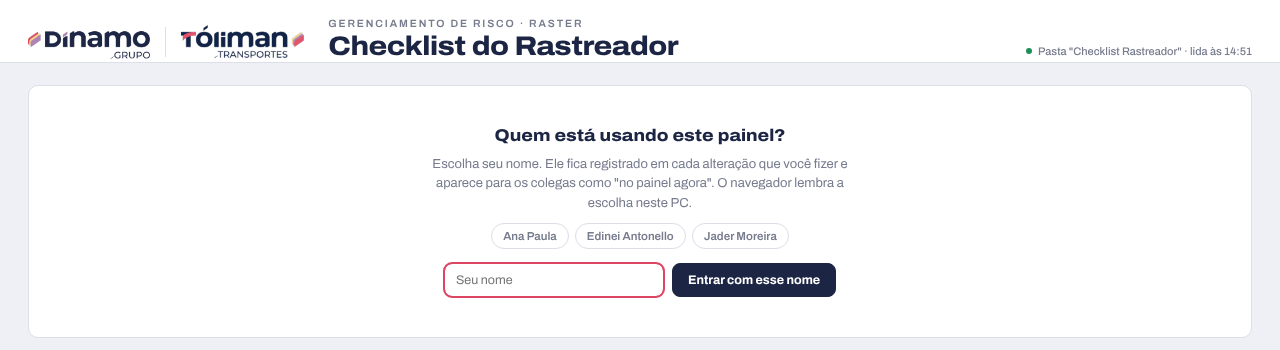
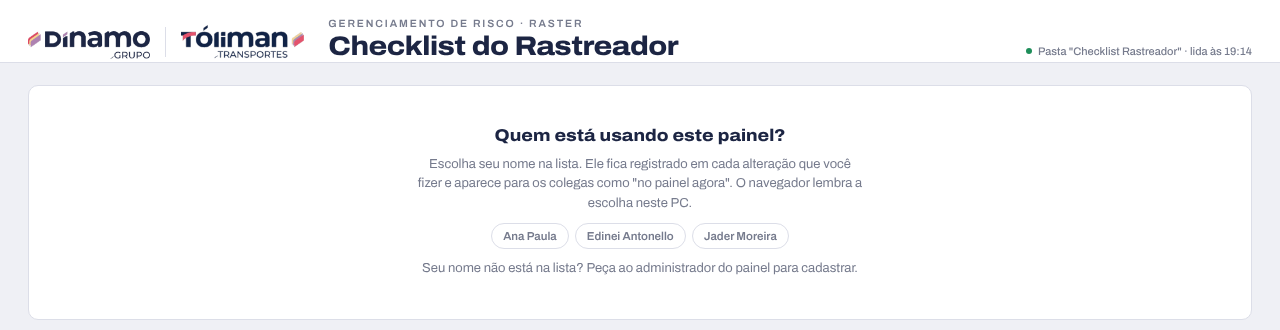
Painel: só o administrador cadastra e remove nomes
Sai o campo livre de nome: cada pessoa escolhe o próprio nome na lista.
O administrador cria uma senha no primeiro acesso (ou pela aba Pessoas,
para instalações que já estavam em uso) e só com ela a lista de nomes
pode ser alterada. Manual atualizado.

Claude-Session: https://claude.ai/code/session_01KxtQDe2sdUZu3ikzxhG5hY

Changed region(s): [[0.3125, 0.3636, 0.6875, 0.8485], [0.0, 0.0303, 0.5312, 0.1818], [0.8125, 0.1212, 1.0, 0.1818]]

diff --git a/painel/painel.html b/painel/painel.html
@@ -252,12 +252,18 @@ footer{margin-top:34px;font-size:11px;color:var(--muted);line-height:1.6;border-
   <!-- quem é você -->
   <section id="quem" class="card empty sec" hidden>
     <div class="big">Quem está usando este painel?</div>
-    <p>Escolha seu nome. Ele fica registrado em cada alteração que você fizer e aparece para os colegas como "no painel agora". O navegador lembra a escolha neste PC.</p>
+    <p>Escolha seu nome na lista. Ele fica registrado em cada alteração que você fizer e aparece para os colegas como "no painel agora". O navegador lembra a escolha neste PC.</p>
     <div class="pessoas" id="quem-lista"></div>
-    <form class="addrow" id="quem-form">
-      <input class="inp" id="quem-nome" placeholder="Seu nome" autocomplete="off" aria-label="Seu nome" maxlength="40">
-      <button class="btn" type="submit">Entrar com esse nome</button>
-    </form>
+    <p class="sec-note" id="quem-nota" style="margin:0">Seu nome não está na lista? Peça ao administrador do painel para cadastrar.</p>
+    <div id="adm-novo" hidden style="display:grid;gap:10px;justify-items:center;border-top:1px solid var(--line);padding-top:16px;margin-top:6px;width:100%">
+      <p style="margin:0"><b>O painel ainda não tem administrador.</b> Quem administra se cadastra aqui primeiro: só o administrador cadastra e remove nomes, usando a senha criada agora.</p>
+      <form class="addrow" id="adm-form">
+        <input class="inp" id="adm-nome" placeholder="Seu nome" autocomplete="off" aria-label="Seu nome" maxlength="40">
+        <input class="inp" id="adm-senha" type="password" placeholder="Crie a senha (mín. 4)" autocomplete="new-password" aria-label="Senha do administrador">
+        <input class="inp" id="adm-senha2" type="password" placeholder="Repita a senha" autocomplete="new-password" aria-label="Repita a senha">
+        <button class="btn" type="submit">Ser o administrador</button>
+      </form>
+    </div>
   </section>
 
   <!-- FILA -->
@@ -297,12 +303,18 @@ footer{margin-top:34px;font-size:11px;color:var(--muted);line-height:1.6;border-
   <!-- PESSOAS -->
   <section id="v-pes" role="tabpanel" aria-labelledby="tab-pes" hidden>
     <div class="sec">
-      <div class="sec-h"><h2>Pessoas que usam o painel</h2><span class="sec-note">Lista compartilhada por todos</span></div>
+      <div class="sec-h"><h2>Pessoas que usam o painel</h2><span class="sec-note" id="pes-adm"></span></div>
       <div class="card pad">
         <div class="pessoas" id="pes-lista" style="justify-content:flex-start"></div>
-        <form class="addrow" id="pes-form" style="justify-content:flex-start;margin-top:14px">
+        <form class="addrow" id="pes-unlock" style="justify-content:flex-start;margin-top:14px">
+          <input class="inp" id="pes-senha" type="password" placeholder="Senha do administrador" autocomplete="current-password" aria-label="Senha do administrador">
+          <button class="btn ghost" type="submit" id="pes-unlock-btn">Gerenciar nomes</button>
+          <span class="sec-note" id="pes-unlock-nota">Só o administrador cadastra e remove nomes.</span>
+        </form>
+        <form class="addrow" id="pes-form" hidden style="justify-content:flex-start;margin-top:14px">
           <input class="inp" id="pes-nome" placeholder="Nome da pessoa" autocomplete="off" aria-label="Nome da pessoa" maxlength="40">
           <button class="btn ghost" type="submit">Adicionar</button>
+          <button class="linkbtn" type="button" id="pes-bloquear">bloquear de novo</button>
         </form>
       </div>
     </div>
@@ -512,23 +524,46 @@ async function presenca() {
 
 /* ---------- quem é você ---------- */
 function entrarOuPerguntar() {
-  if (st.pessoa) { mostrarApp(); return; }
+  // só entra com um nome cadastrado; nome removido da lista volta para a escolha
+  if (st.pessoa && st.estado.pessoas.includes(st.pessoa)) { mostrarApp(); return; }
   ['#tabs', '#v-fila', '#v-imp', '#v-pes', '#eu-wrap', '#rodape'].forEach(s => $(s).hidden = true);
   $('#quem').hidden = false;
   const l = $('#quem-lista'); l.innerHTML = '';
   for (const n of st.estado.pessoas) l.append(botao(n, 'chip', () => definirPessoa(n)));
-  if (!st.estado.pessoas.length) l.innerHTML = '<span class="sec-note">Ninguém cadastrado ainda: você será o primeiro.</span>';
-  $('#quem-nome').focus();
+  if (!st.estado.pessoas.length) l.innerHTML = '<span class="sec-note">Nenhum nome cadastrado ainda.</span>';
+  $('#adm-novo').hidden = !!st.estado.admin;
+  $('#quem-nota').hidden = !st.estado.admin;
 }
-async function definirPessoa(nome, nova) {
-  nome = String(nome || '').trim().replace(/\s+/g, ' ');
-  if (!nome) return;
+function definirPessoa(nome) {
   st.pessoa = nome; lsSet('raster.pessoa', nome);
-  if (nova && !st.estado.pessoas.some(p => p.toLowerCase() === nome.toLowerCase())) await acao(() => gravar('pessoa_adicionada', null, { nome }));
   $('#quem').hidden = true;
   mostrarApp();
 }
-$('#quem-form').addEventListener('submit', e => { e.preventDefault(); definirPessoa($('#quem-nome').value, true); });
+const limparNome = s => String(s || '').trim().replace(/\s+/g, ' ');
+async function hashSenha(senha, salt) {
+  const buf = await crypto.subtle.digest('SHA-256', new TextEncoder().encode(salt + ':' + senha));
+  return [...new Uint8Array(buf)].map(b => b.toString(16).padStart(2, '0')).join('');
+}
+async function senhaConfere(senha) {
+  const a = st.estado.admin;
+  return !!a && await hashSenha(senha, a.salt) === a.hash;
+}
+$('#adm-form').addEventListener('submit', async e => {
+  e.preventDefault();
+  if (st.estado.admin) { entrarOuPerguntar(); return; }
+  const nome = limparNome($('#adm-nome').value), s1 = $('#adm-senha').value, s2 = $('#adm-senha2').value;
+  if (!nome) { aviso('Digite seu nome.', 'info'); return; }
+  if (s1.length < 4) { aviso('A senha precisa ter pelo menos 4 caracteres.', 'info'); return; }
+  if (s1 !== s2) { aviso('As duas senhas não são iguais.', 'info'); return; }
+  const salt = novoId() + novoId();
+  st.pessoa = nome;
+  await acao(async () => {
+    if (!st.estado.pessoas.includes(nome)) await gravar('pessoa_adicionada', null, { nome });
+    await gravar('admin_definido', null, { nome, salt, hash: await hashSenha(s1, salt) });
+  }, `${nome} é o administrador do painel.`);
+  st.adminOk = true;
+  definirPessoa(nome);
+});
 
 function mostrarApp() {
   ['#tabs', '#eu-wrap', '#rodape'].forEach(s => $(s).hidden = false);
@@ -853,18 +888,37 @@ document.addEventListener('drop', e => { if (!st.pessoa || !e.dataTransfer?.file
 /* ---------- pessoas ---------- */
 const armadas = new Set();
 function renderPessoas() {
-  const l = $('#pes-lista');
-  l.innerHTML = st.estado.pessoas.map(n => `<span class="chip" style="cursor:default;display:inline-flex;gap:8px;align-items:center">${esc(n)}${n === st.pessoa ? ' <span class="muted">(você)</span>' : ` <button class="linkbtn" type="button" data-rm="${esc(n)}">${armadas.has(n) ? 'confirmar remoção' : 'remover'}</button>`}</span>`).join('') || '<span class="sec-note">Nenhuma pessoa cadastrada.</span>';
+  const l = $('#pes-lista'), adm = st.estado.admin;
+  l.innerHTML = st.estado.pessoas.map(n => `<span class="chip" style="cursor:default;display:inline-flex;gap:8px;align-items:center">${esc(n)}${n === st.pessoa ? ' <span class="muted">(você)</span>' : (st.adminOk ? ` <button class="linkbtn" type="button" data-rm="${esc(n)}">${armadas.has(n) ? 'confirmar remoção' : 'remover'}</button>` : '')}</span>`).join('') || '<span class="sec-note">Nenhuma pessoa cadastrada.</span>';
+  $('#pes-adm').textContent = adm ? `Administrador: ${adm.nome}` : 'Sem administrador';
+  $('#pes-unlock').hidden = !!st.adminOk;
+  $('#pes-unlock-btn').textContent = adm ? 'Gerenciar nomes' : 'Criar senha e ser o administrador';
+  $('#pes-unlock-nota').textContent = adm ? 'Só o administrador cadastra e remove nomes.' : `Ainda não há administrador. Quem criar a senha agora (${st.pessoa || ''}) passa a ser o único que cadastra e remove nomes.`;
+  $('#pes-form').hidden = !st.adminOk;
 }
+$('#pes-unlock').addEventListener('submit', async e => {
+  e.preventDefault();
+  if (!st.estado.admin) {
+    const s = $('#pes-senha').value;
+    if (s.length < 4) { aviso('A senha precisa ter pelo menos 4 caracteres.', 'info'); return; }
+    const salt = novoId() + novoId();
+    await acao(async () => gravar('admin_definido', null, { nome: st.pessoa, salt, hash: await hashSenha(s, salt) }), `${st.pessoa} é o administrador do painel. Guarde a senha.`);
+    $('#pes-senha').value = ''; st.adminOk = !!st.estado.admin; renderPessoas(); return;
+  }
+  if (!await senhaConfere($('#pes-senha').value)) { aviso('Senha do administrador incorreta.', 'err'); return; }
+  $('#pes-senha').value = ''; st.adminOk = true; renderPessoas(); $('#pes-nome').focus();
+});
+$('#pes-bloquear').addEventListener('click', () => { st.adminOk = false; armadas.clear(); renderPessoas(); });
 $('#pes-lista').addEventListener('click', e => {
-  const b = e.target.closest('[data-rm]'); if (!b) return;
+  const b = e.target.closest('[data-rm]'); if (!b || !st.adminOk) return;
   const n = b.dataset.rm;
   if (!armadas.has(n)) { armadas.add(n); renderPessoas(); return; }
   armadas.delete(n); acao(() => gravar('pessoa_removida', null, { nome: n }), `${n} removido da lista.`);
 });
 $('#pes-form').addEventListener('submit', e => {
   e.preventDefault();
-  const nome = $('#pes-nome').value.trim().replace(/\s+/g, ' ');
+  if (!st.adminOk) return;
+  const nome = limparNome($('#pes-nome').value);
   if (!nome) return;
   if (st.estado.pessoas.some(p => p.toLowerCase() === nome.toLowerCase())) { aviso(`${nome} já está na lista.`, 'info'); return; }
   acao(() => gravar('pessoa_adicionada', null, { nome }), `${nome} adicionado.`).then(() => { $('#pes-nome').value = ''; });

diff --git a/docs/manual/manual.html b/docs/manual/manual.html
@@ -238,7 +238,7 @@ figure.det2 .moldura,figure.det2 figcaption{width:60%}
     <figcaption><span class="tag ilus">Ilustração</span>Pergunta de permissão do Edge ou do Chrome. O texto exato muda conforme a versão do navegador.</figcaption>
   </figure>
   <ol class="passos" style="counter-reset:p 3">
-    <li><div>Escolha seu nome na lista. Se ele não estiver lá, digite e clique em <span class="btnx">Entrar com esse nome</span>. Use sempre o mesmo nome: é ele que aparece no histórico de tudo o que você fizer.</div></li>
+    <li><div>Escolha seu nome na lista. Se ele não estiver lá, peça ao administrador do painel para cadastrar: só ele cadastra nomes. Use sempre o mesmo nome: é ele que aparece no histórico de tudo o que você fizer.</div></li>
   </ol>
   <figure class="menor">
     <div class="moldura"><img src="img/02-nome.png" alt="Tela de escolha do nome"></div>
@@ -372,7 +372,7 @@ figure.det2 .moldura,figure.det2 figcaption{width:60%}
     </figure>
   </div>
   <p><b>Alguém novo precisa usar o painel:</b> peça a um proprietário do time no Teams para adicionar a pessoa como membro. Depois ela segue as seções 1 e 2 no computador dela.</p>
-  <p>A aba <b>Pessoas</b> mostra quem usa o painel. Dá para adicionar e remover nomes; a remoção pede um segundo clique para confirmar.</p>
+  <p>A aba <b>Pessoas</b> mostra quem usa o painel e quem é o administrador. Só o administrador, com a senha dele, cadastra e remove nomes.</p>
   <h3>Quando um colega mexe no mesmo veículo</h3>
   <ul>
     <li><b>Faixa amarela no detalhe:</b> aparece quando outra pessoa alterou aquele veículo nos últimos 10 minutos e diz o que ela fez. Confira antes de mudar algo.</li>

diff --git a/painel/lib/checklist.js b/painel/lib/checklist.js
@@ -100,6 +100,7 @@
     const veiculos = new Map();
     const pessoas = new Map();
     const codigos = new Map(); // código Raster -> evento de importação
+    let admin = null; // senha do administrador (só ele cadastra e remove pessoas)
     const vei = (placa) => {
       if (!veiculos.has(placa)) {
         veiculos.set(placa, {
@@ -112,6 +113,7 @@
     for (const e of ord) {
       if (e.tipo === 'pessoa_adicionada') { pessoas.set(e.dados.nome, true); continue; }
       if (e.tipo === 'pessoa_removida') { pessoas.delete(e.dados.nome); continue; }
+      if (e.tipo === 'admin_definido') { admin = { nome: e.dados.nome, salt: e.dados.salt, hash: e.dados.hash, ts: e.ts }; continue; }
       if (!e.placa) continue;
       const v = vei(e.placa);
       v.historico.push(e);
@@ -156,7 +158,7 @@
       }
     }
     for (const v of veiculos.values()) classificar(v, agora);
-    return { veiculos: [...veiculos.values()], pessoas: [...pessoas.keys()].sort((a, b) => a.localeCompare(b, 'pt-BR')), codigos };
+    return { veiculos: [...veiculos.values()], pessoas: [...pessoas.keys()].sort((a, b) => a.localeCompare(b, 'pt-BR')), codigos, admin };
   }
 
   function classificar(v, agora) {
